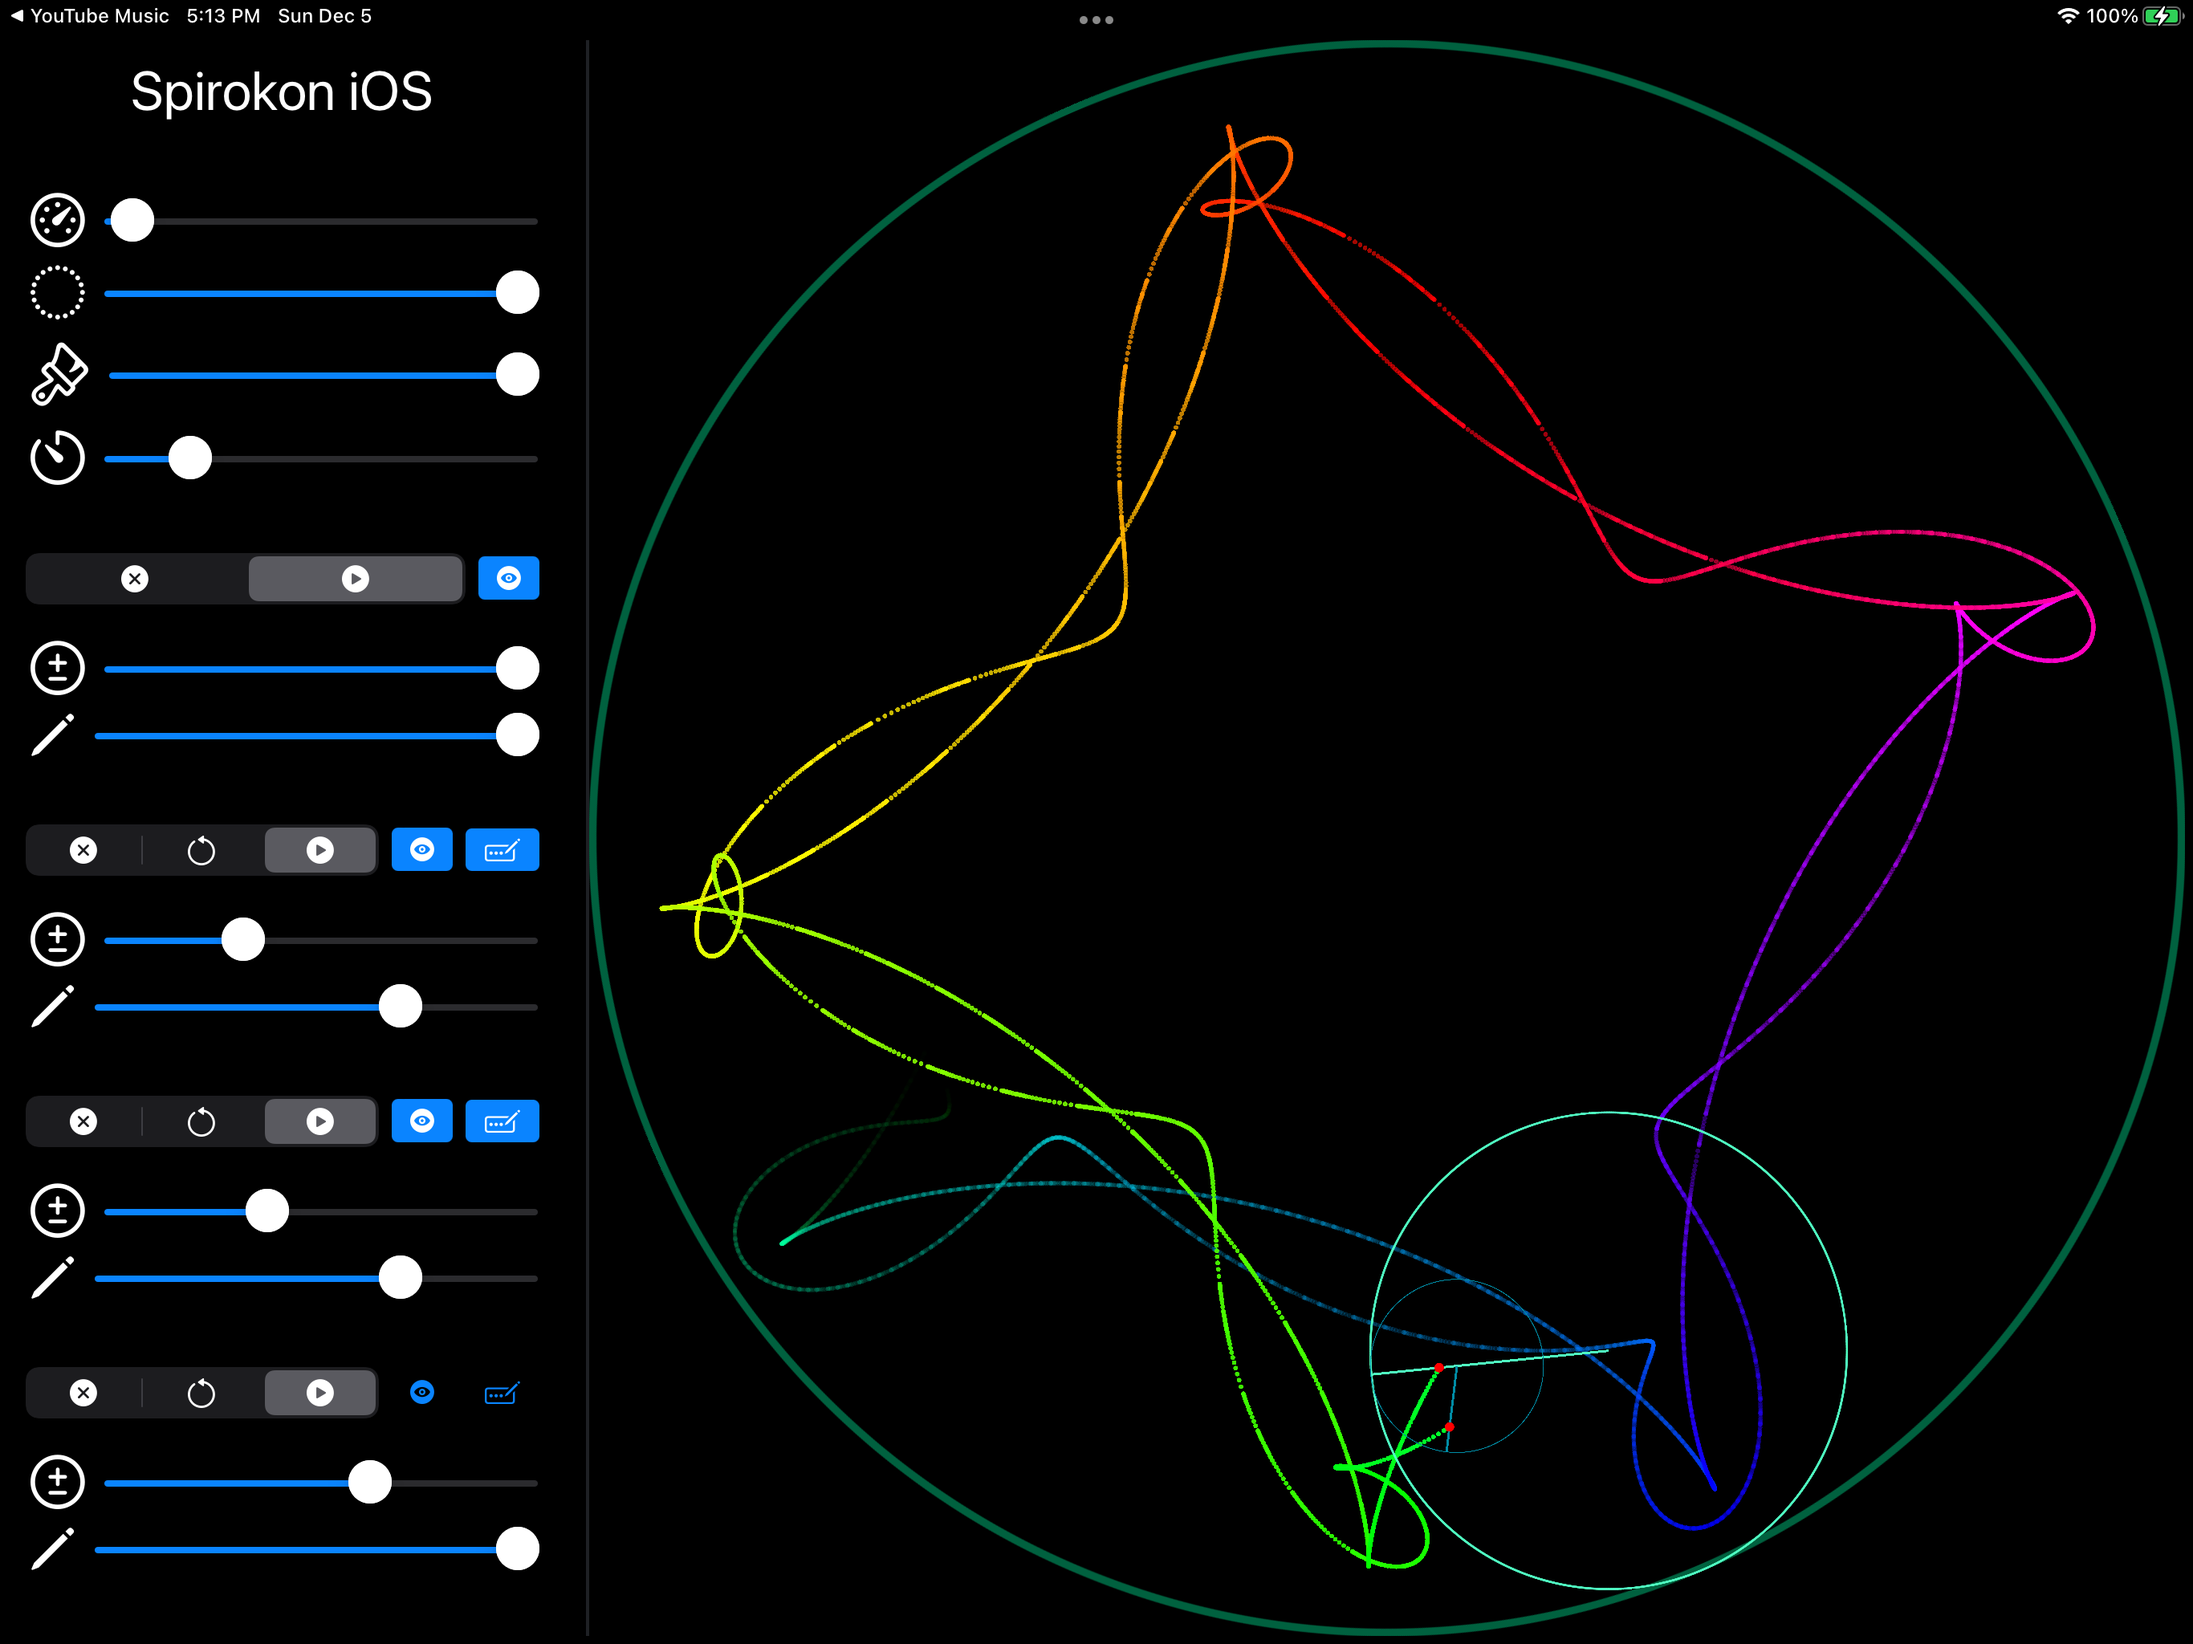
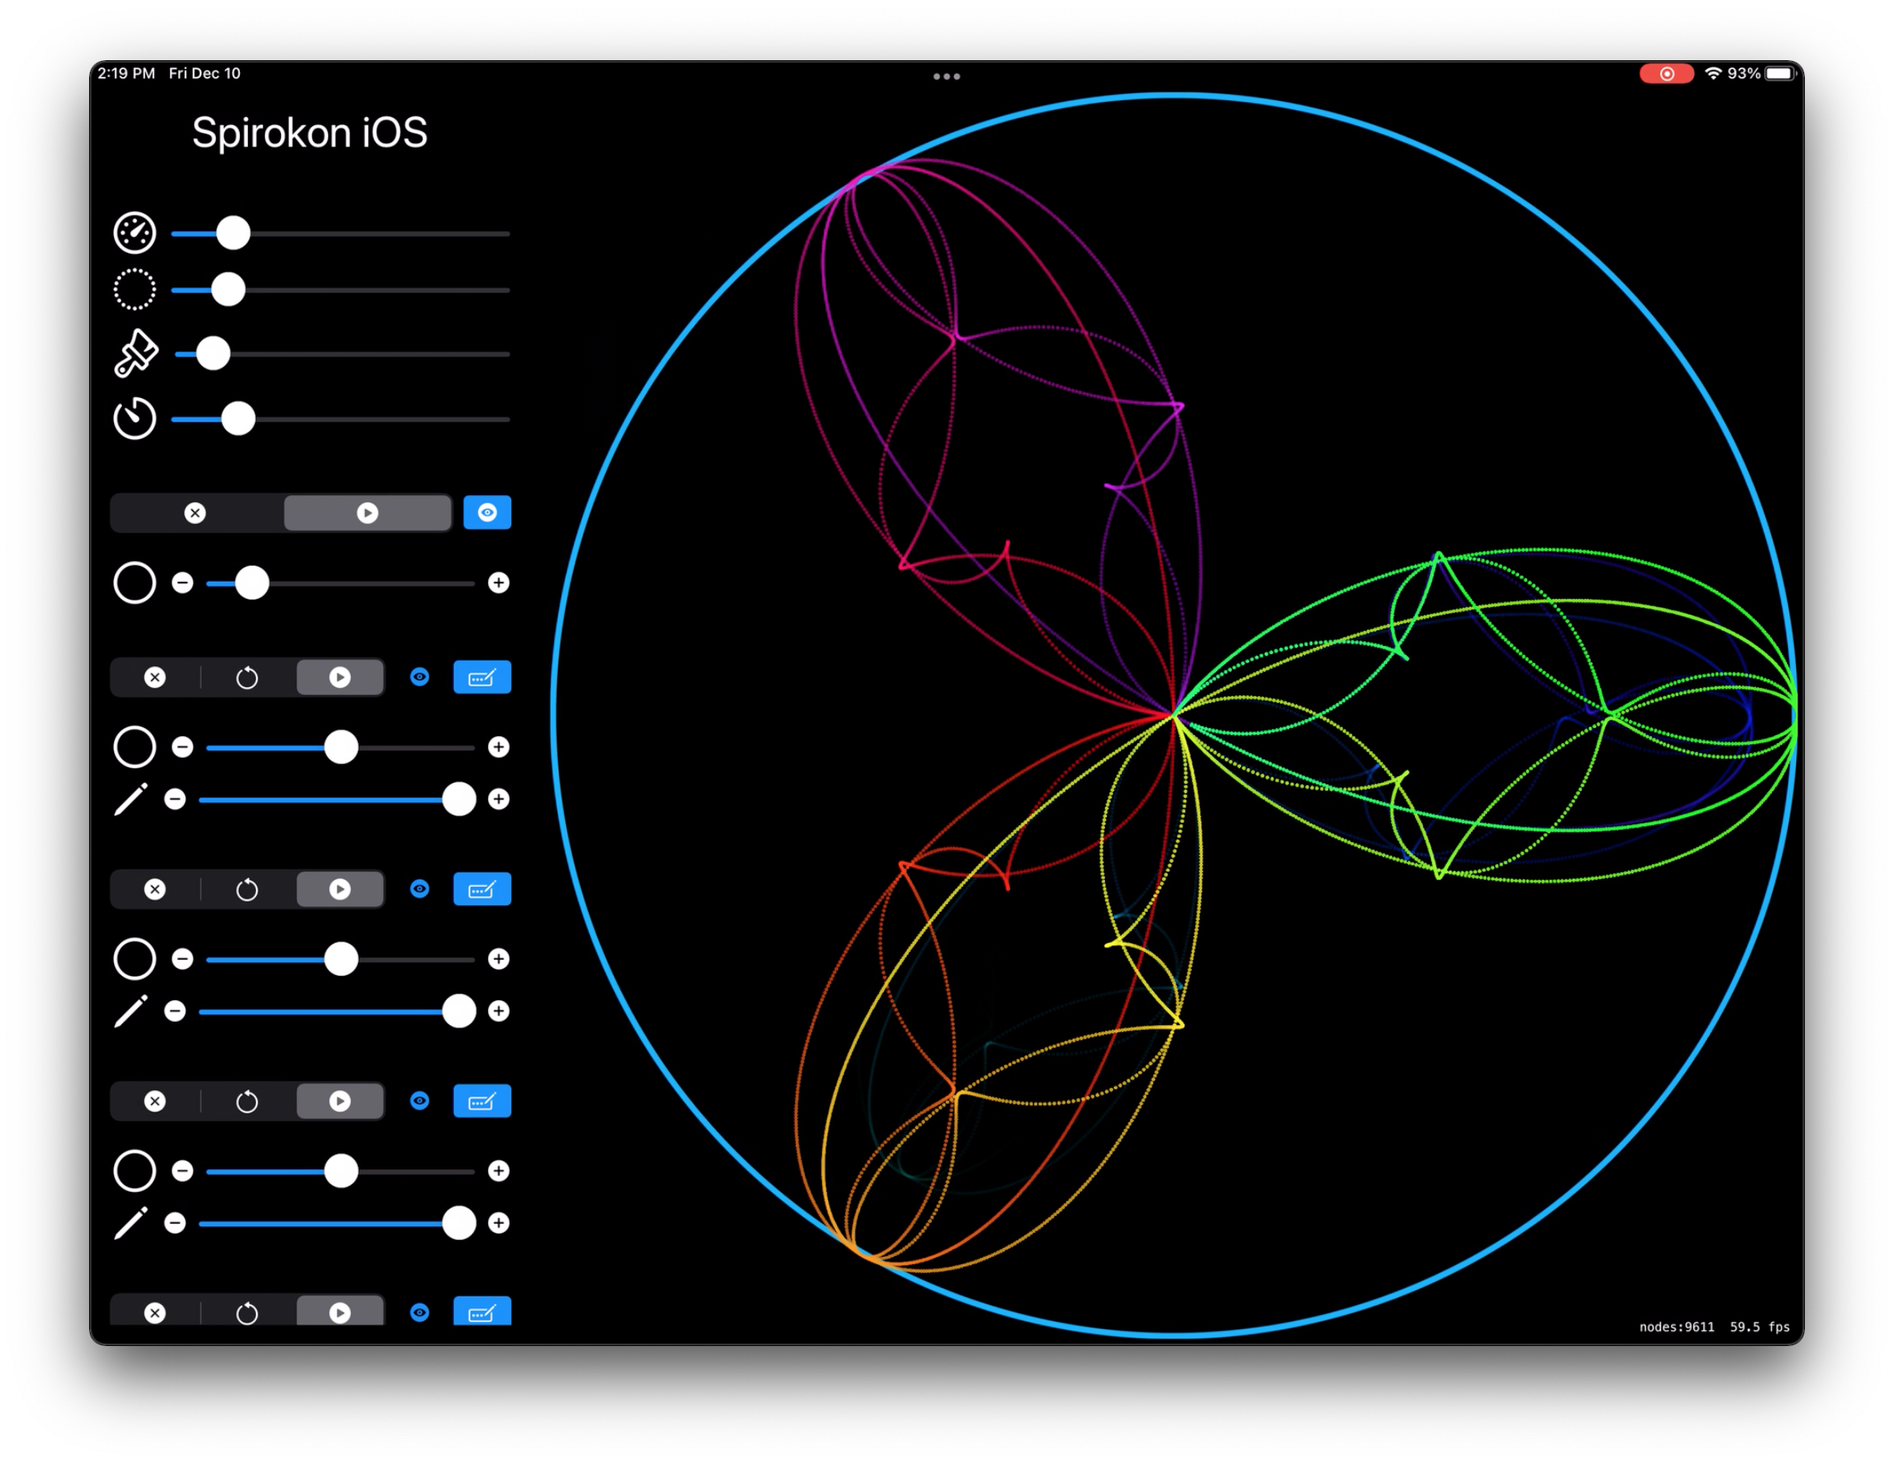
New screenshot, just for fun

diff --git a/Shared/AppModel.swift b/Shared/AppModel.swift
@@ -15,13 +15,13 @@ class AppModel: ObservableObject {
             newTumbler.rollMode.value = .normal
 
             if tumblerType == .outerRing {
-                newTumbler.radius.value = 1.0
+                newTumbler.radius.value = 0.125
                 newTumbler.pen.value = 0.0    // Future feature, pen in the outermost ring?
             }
 
             if tumblerType == .innerRing {
-                newTumbler.radius.value = 0.625
-                newTumbler.pen.value = 0.0375
+                newTumbler.radius.value = 0.5
+                newTumbler.pen.value = 1.0
             }
 
             return newTumbler
